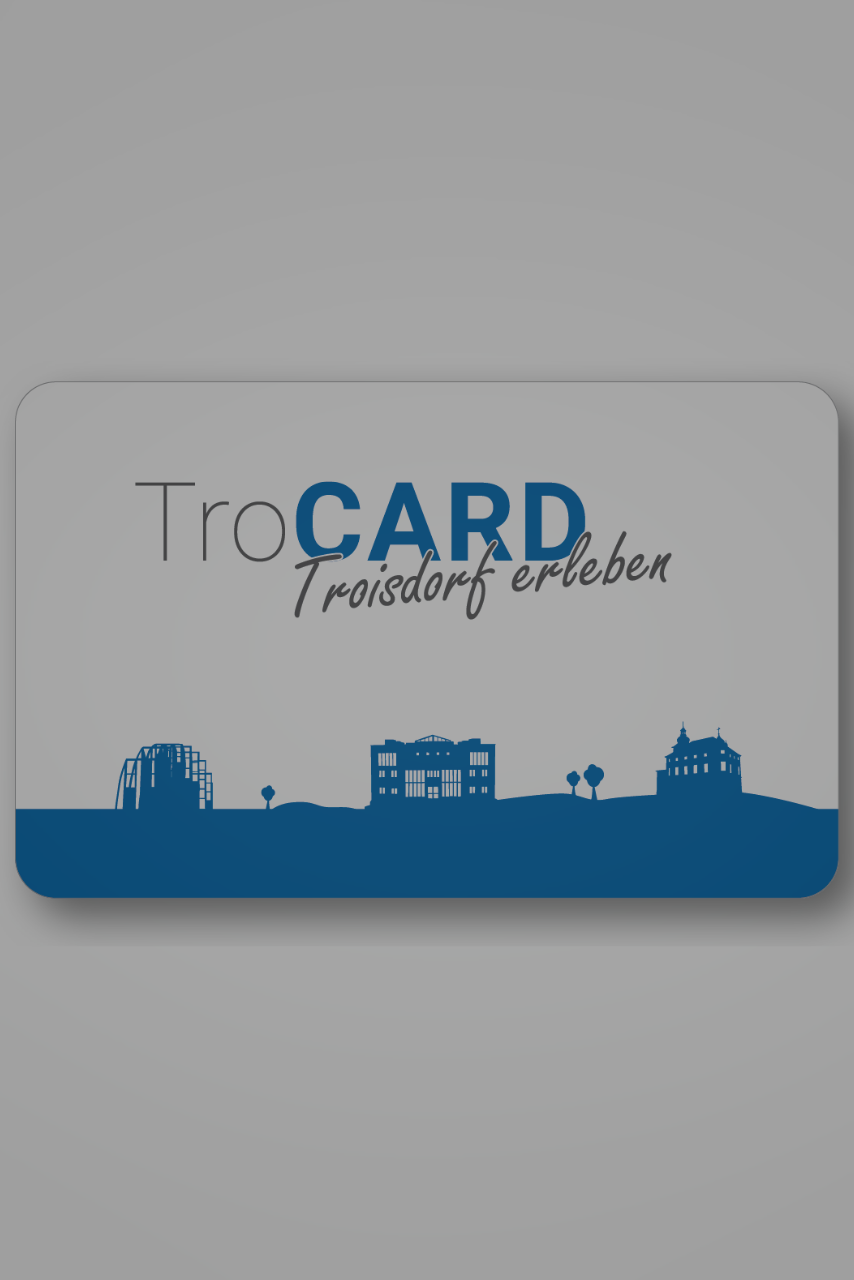
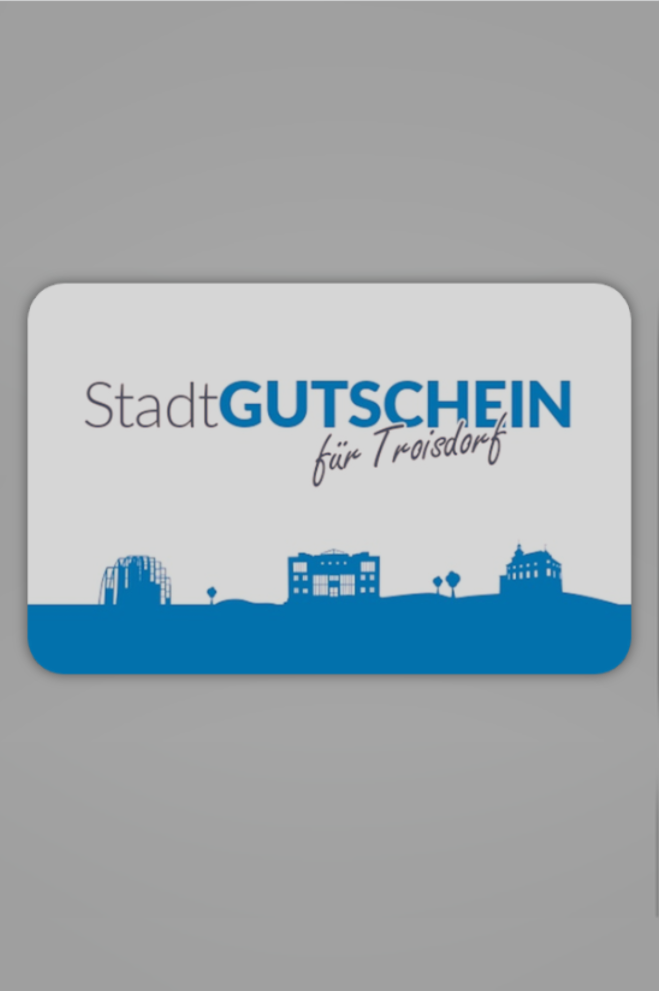
Changed TroCard Image

diff --git a/lib/src/presentation/main/trolley_maker/cards/trolley_maker_cards_screen.dart b/lib/src/presentation/main/trolley_maker/cards/trolley_maker_cards_screen.dart
@@ -133,10 +133,10 @@ class _TrolleyMakerCardsScreenState extends State<TrolleyMakerCardsScreen> {
                   mainAxisAlignment: MainAxisAlignment.start,
                   crossAxisAlignment: CrossAxisAlignment.center,
                   children: [
-                    const SizedBox(
-                      height: 40,
-                    ),
-                    StyledCardName(cardName: cardName),
+                    // const SizedBox(
+                    //   height: 40,
+                    // ),
+                    // StyledCardName(cardName: cardName),
                     const SizedBox(
                       height: 40,
                     ),

diff --git a/lib/src/presentation/main/discovery/discovery_screen_detail.dart b/lib/src/presentation/main/discovery/discovery_screen_detail.dart
@@ -58,7 +58,7 @@ class _DiscoveryScreenState extends State<DiscoveryScreenDetail> {
           centerTitle: true,
           title: Text(
             (widget.arguments['id'] == 16)
-                ? "TroCARD"
+                ? "StadtGUTSCHEIN"
                 : (widget.arguments['id'] == 6
                 ? Translate.of(context).translate('mobility')
                 : Translate.of(context).translate('cust_services')),

diff --git a/lib/src/utils/configs/theme.dart b/lib/src/utils/configs/theme.dart
@@ -115,7 +115,7 @@ class AppTheme {
       dividerTheme: const DividerThemeData(
         thickness: 0.8,
       ),
-      bottomAppBarTheme: const BottomAppBarThemeData(
+      bottomAppBarTheme: const BottomAppBarTheme(
         shape: CircularNotchedRectangle(),
       ),
       colorScheme: colorScheme
